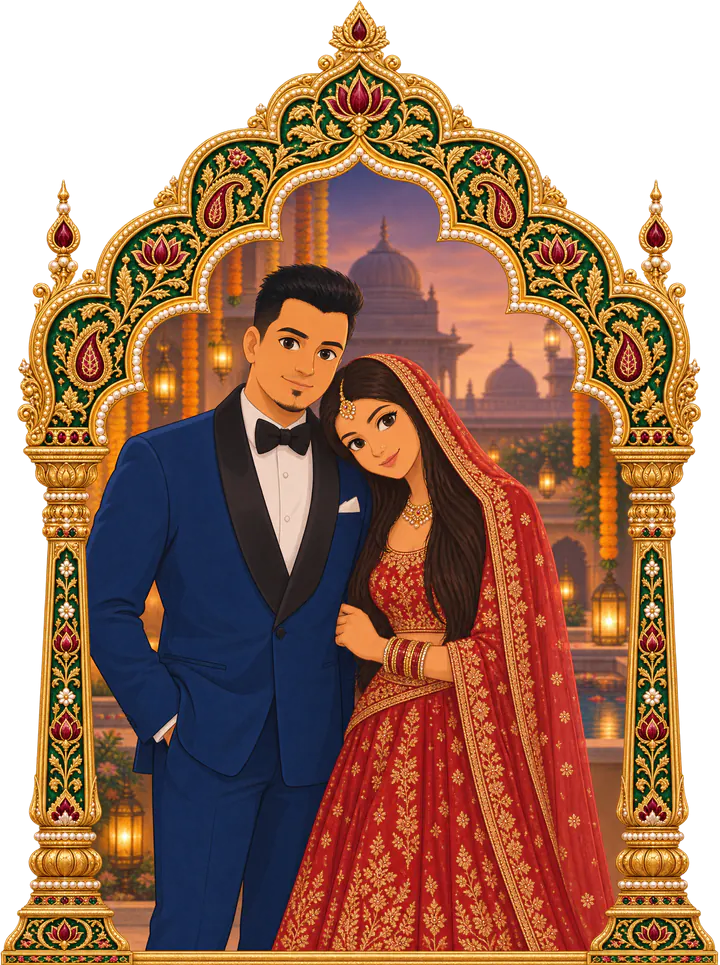
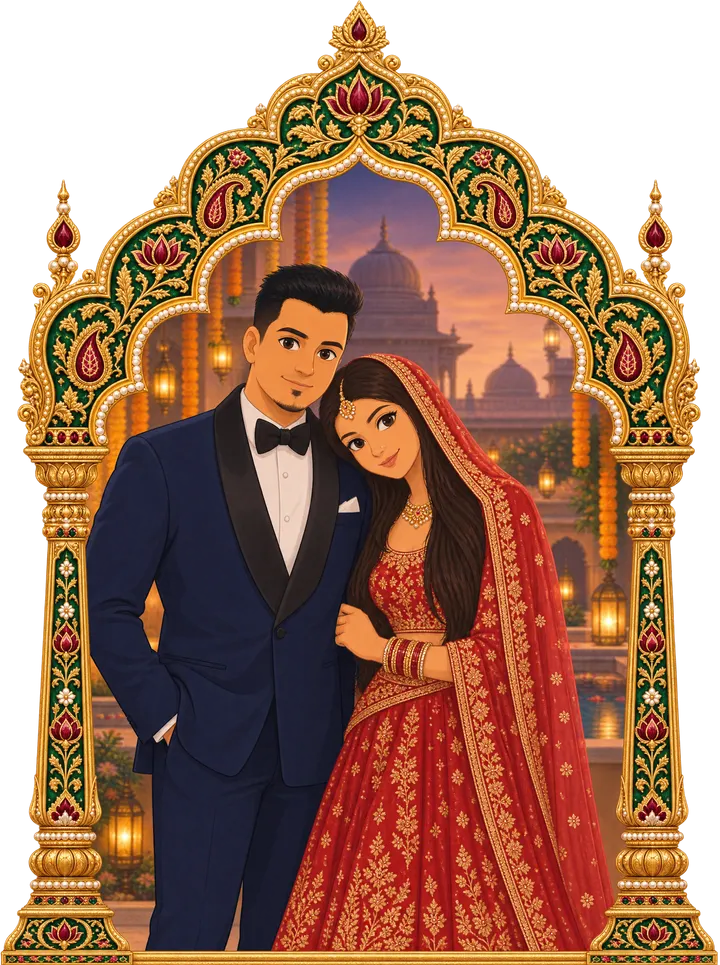
Wedding at 7 pm, navy suit in the portrait; holud at Shimanto Convention Centre, purple swatch
- Wedding starts at 7 pm (was 6 pm); the date page, venue card, countdown
  and calendar links follow from config.start.
- Portrait: Wahid's cobalt tuxedo recoloured to navy to match his real
  Highworth Navy suit (local OKLCH recolour of portrait-v8, no regeneration).
- Holud venue is Shimanto Convention Centre, 4th Floor, Shimanto Square
  Market, 75 Road No. 2, Dhaka 1209 (not BGB Banquet Hall); maps link,
  meta descriptions and the venue card updated, card name balanced.
- Holud dress swatches: Kolapata (green) replaced with Beguni (purple).

Claude-Session: https://claude.ai/code/session_01KxrNxxARccDbumsJrXybGD

diff --git a/holud/index.html b/holud/index.html
@@ -4,14 +4,14 @@
   <meta charset="utf-8">
   <meta name="viewport" content="width=device-width, initial-scale=1, viewport-fit=cover">
   <title>Wahid &amp; Anushka’s Gaye Holud</title>
-  <meta name="description" content="You are invited to the Gaye Holud of Wahid Sanjan and Anushka Shahreen on Thursday 24 December 2026 at BGB Banquet Hall, Shimanto Shambhar, Dhaka.">
+  <meta name="description" content="You are invited to the Gaye Holud of Wahid Sanjan and Anushka Shahreen on Thursday 24 December 2026 at Shimanto Convention Centre, Shimanto Square, Dhaka.">
   <meta name="theme-color" content="#E9A410">
 
   <!-- Link previews read these tags, not js/config.js: update the names and date here too. -->
   <meta property="og:type" content="website">
   <meta property="og:url" content="https://ssanjan123.github.io/wedding-invitation/holud/">
   <meta property="og:title" content="Wahid &amp; Anushka’s Gaye Holud">
-  <meta property="og:description" content="Thursday 24 December 2026, BGB Banquet Hall, Dhaka. Open your invitation.">
+  <meta property="og:description" content="Thursday 24 December 2026, Shimanto Convention Centre, Dhaka. Open your invitation.">
   <meta property="og:image" content="https://ssanjan123.github.io/wedding-invitation/holud/assets/img/og-share.jpg">
   <meta property="og:image:width" content="1200">
   <meta property="og:image:height" content="630">
@@ -73,14 +73,14 @@
 
         <div class="venue-title">
           <p class="venue-title__lead" data-bind="venue.lead">The holud will be held at</p>
-          <h2 class="venue-title__name" id="venue-name" data-bind="venue.name">BGB Banquet Hall</h2>
+          <h2 class="venue-title__name" id="venue-name" data-bind="venue.name">Shimanto Convention Centre</h2>
         </div>
 
         <div class="venue-card">
-          <p class="venue-card__name" data-bind="venue.name">BGB Banquet Hall</p>
-          <p class="venue-card__address" data-bind="venue.address">Shimanto Shambhar, 4th floor, Road 2, Dhanmondi, Dhaka 1205</p>
+          <p class="venue-card__name" data-bind="venue.name">Shimanto Convention Centre</p>
+          <p class="venue-card__address" data-bind="venue.address">4th Floor, Shimanto Square Market, 75 Road No. 2, Dhaka 1209</p>
           <p class="venue-card__when" data-bind="whenShort">Thursday 24 December 2026, 7 pm</p>
-          <a class="btn btn--ghost" data-href="venue.mapsUrl" href="https://www.google.com/maps/search/?api=1&amp;query=BGB+Banquet+Hall%2C+Shimanto+Shambhar%2C+Road+2%2C+Dhanmondi%2C+Dhaka" target="_blank" rel="noopener">Get directions</a>
+          <a class="btn btn--ghost" data-href="venue.mapsUrl" href="https://www.google.com/maps/search/?api=1&amp;query=Shimanto+Convention+Centre%2C+Shimanto+Square+Market%2C+75+Road+No.+2%2C+Dhaka+1209" target="_blank" rel="noopener">Get directions</a>
           <div class="evening">
             <svg class="evening__line" viewBox="0 0 2 100" preserveAspectRatio="none" aria-hidden="true"><line x1="1" y1="0" x2="1" y2="100" pathLength="1"/></svg>
             <ol class="evening__list"></ol>
@@ -205,11 +205,11 @@
 
         <p class="dress__bangla" lang="bn" aria-hidden="true" data-bind="dress.bangla">হলুদ</p>
         <h2 class="dress__title" id="dress-title" data-bind="dress.title">Come dressed in holud</h2>
-        <p class="dress__note" data-bind="dress.note">Yellow, marigold or green. The brighter, the better.</p>
+        <p class="dress__note" data-bind="dress.note">Yellow, marigold or purple. The brighter, the better.</p>
         <ul class="swatches" data-swatches>
           <li class="swatch swatch--holud"><i></i><span>Holud</span></li>
           <li class="swatch swatch--genda"><i></i><span>Genda</span></li>
-          <li class="swatch swatch--pata"><i></i><span>Kolapata</span></li>
+          <li class="swatch swatch--beguni"><i></i><span>Beguni</span></li>
         </ul>
 
         <div class="rule" aria-hidden="true"><i></i></div>

diff --git a/holud/css/style.css b/holud/css/style.css
@@ -17,6 +17,7 @@
   --paper: #FBEFC4;
   --rice: #FFF8EA;
   --marigold: #E0700E;
+  --beguni: #7A2E92;
   --leaf-950: #0E2415;
   --leaf-900: #1E3F20;
   --leaf-700: #2F6B2F;
@@ -602,7 +603,7 @@ html:not(.motion) .curtain { display: none; }
   background: linear-gradient(to bottom, rgba(30, 63, 32, .88), rgba(14, 36, 21, .94));
   box-shadow: inset 0 0 0 1px rgba(246, 206, 91, .55), inset 0 0 0 6px rgba(14, 36, 21, .3), inset 0 0 0 7px rgba(179, 38, 30, .45);
 }
-.venue-card__name { font-size: clamp(24px, 3vw, 30px); font-weight: 500; color: var(--turmeric-300); line-height: 1.2; }
+.venue-card__name { font-size: clamp(24px, 3vw, 30px); font-weight: 500; color: var(--turmeric-300); line-height: 1.2; text-wrap: balance; }
 .venue-card__address { margin-top: 4px; font-size: 18px; opacity: .92; text-wrap: balance; }
 .venue-card__when { margin-top: 2px; font-style: italic; font-size: 18px; opacity: .92; }
 .venue-card .btn { margin-top: 16px; }
@@ -680,7 +681,7 @@ html:not(.motion) .scene--stage { min-height: 100svh; }
 .swatch span { font-style: italic; font-size: 17px; color: var(--henna); }
 .swatch--holud { --c: var(--turmeric-500); }
 .swatch--genda { --c: var(--marigold); }
-.swatch--pata { --c: var(--leaf-700); }
+.swatch--beguni { --c: var(--beguni); }
 
 .rule { display: flex; align-items: center; gap: 12px; width: min(240px, 64vw); margin: 34px auto 26px; }
 .rule::before, .rule::after { content: ""; flex: 1; height: 1px; background: linear-gradient(90deg, transparent, var(--vermilion)); }

diff --git a/index.html b/index.html
@@ -79,7 +79,7 @@
         <div class="venue-card">
           <p class="venue-card__name" data-bind="venue.name">BAF Shaheen Hall</p>
           <p class="venue-card__address" data-bind="venue.address">Airport Road, beside Jahangir Gate, Dhaka Cantonment, Dhaka 1206</p>
-          <p class="venue-card__when" data-bind="whenShort">Sunday 27 December 2026, 6 pm</p>
+          <p class="venue-card__when" data-bind="whenShort">Sunday 27 December 2026, 7 pm</p>
           <a class="btn btn--ghost" data-href="venue.mapsUrl" href="#" target="_blank" rel="noopener">Get directions</a>
           <div class="evening">
             <svg class="evening__line" viewBox="0 0 2 100" preserveAspectRatio="none" aria-hidden="true"><line x1="1" y1="0" x2="1" y2="100" pathLength="1"/></svg>
@@ -123,7 +123,7 @@
               <p class="date__weekday" data-bind="weekday">Sunday</p>
               <p class="date__day"><span class="sr-only" data-day>27</span><span class="date__digits" aria-hidden="true"></span></p>
               <p class="date__month" data-bind="monthYear">December 2026</p>
-              <p class="date__time" data-bind="timeWords">at six o’clock in the evening</p>
+              <p class="date__time" data-bind="timeWords">at seven o’clock in the evening</p>
             </div>
             <p class="countdown"></p>
           </div>

diff --git a/holud/js/config.js b/holud/js/config.js
@@ -37,9 +37,9 @@ window.INVITE = {
 
   venue: {
     lead: "The holud will be held at",
-    name: "BGB Banquet Hall",
-    address: "Shimanto Shambhar, 4th floor, Road 2, Dhanmondi, Dhaka 1205",
-    mapsUrl: "https://www.google.com/maps/search/?api=1&query=BGB+Banquet+Hall%2C+Shimanto+Shambhar%2C+Road+2%2C+Dhanmondi%2C+Dhaka"
+    name: "Shimanto Convention Centre",
+    address: "4th Floor, Shimanto Square Market, 75 Road No. 2, Dhaka 1209",
+    mapsUrl: "https://www.google.com/maps/search/?api=1&query=Shimanto+Convention+Centre%2C+Shimanto+Square+Market%2C+75+Road+No.+2%2C+Dhaka+1209"
   },
 
   // Shown on the venue card. Leave the list empty to hide it.
@@ -50,8 +50,8 @@ window.INVITE = {
   dress: {
     bangla: "হলুদ",
     title: "Come dressed in holud",
-    note: "Yellow, marigold or green. The brighter, the better.",
-    swatches: ["Holud", "Genda", "Kolapata"]
+    note: "Yellow, marigold or purple. The brighter, the better.",
+    swatches: ["Holud", "Genda", "Beguni"]
   },
 
   // A note from the couple. Each item is one paragraph.

diff --git a/js/config.js b/js/config.js
@@ -24,7 +24,7 @@ window.INVITE = {
   request: "request the honour of your presence at their wedding",
 
   // Local time at the venue, 24-hour clock
-  start: "2026-12-27T18:00",
+  start: "2026-12-27T19:00",
   end: "2026-12-27T23:00",
   // Bangladesh time, so the countdown and calendar are right for guests anywhere
   utcOffset: "+06:00",

diff --git a/CLAUDE.md b/CLAUDE.md
@@ -55,7 +55,7 @@ Two GSAP rules keep the timeline the same scrolling up as scrolling down (both p
 `js/config.js` (`window.INVITE`) is the single source of guest-facing text. `index.html` holds the same text as fallback for no-JS. `fillContent()` overwrites it through data attributes:
 - `data-bind="path"` looks up `derived` first, then a dotted path into `INVITE` (e.g. `venue.name`).
 - `data-href`, `data-initials`, `data-guest`, `data-guest-line`, `data-message`, `data-ics` and `data-gcal` have their own handling.
-- `derived` holds values computed from `start`: weekday, month/year, "at six o'clock in the evening", `whenShort` and the full names.
+- `derived` holds values computed from `start`: weekday, month/year, "at seven o'clock in the evening", `whenShort` and the full names.
 The `<title>` and `og:` meta tags in `index.html` are **not** bound (link-preview crawlers don't run JS), so change them by hand whenever names or date change. Keep the HTML fallback text in sync as well.
 `assets/img/og-share.jpg` (the link preview) has W & A drawn into its seal: Imperial Script in the `--foil` gradient, sized like `fitMonograms()` to 92% of the seal's flat inner disc (centre 595.5, 325.5, 63 px across in the 1200x630 image), rendered in puppeteer over the plain image and saved as JPEG q90 (about 200 KB; WhatsApp may drop a preview image over 300 KB). The `og:image` URL carries `?v=2` so chat apps fetch it again; bump it whenever the image changes.
 
@@ -83,7 +83,7 @@ Each `<video>` has `data-land` / `data-port`, and the clip is picked by orientat
 - **Keep the film section cheap to draw:** don't put `backdrop-filter` on anything that appears over a film (the venue cards are opaque instead; the blur stalled a frame as the card appeared). The wedding's `.portal__frame` gets `will-change: transform` from the timeline at 8.3, for the doorway zoom only, because scaling the masked paper 9x repainted it every frame. Don't put it in the CSS: on 1x screens Chrome kept the zoom's raster, so the names looked soft on the way down and jagged after scrolling back. No CSS `filter` on anything that moves over a film either: the holud strands' drop-shadows are baked into their images for that reason.
 
 ## Holud page (`holud/`)
-A joint Gaye Holud invitation (Thursday 24 December 2026, 7 to 11 pm, BGB Banquet Hall, Shimanto Shambhar), live at https://ssanjan123.github.io/wedding-invitation/holud/. It links back to the wedding (`wedding.url: "../"`); the wedding page does not link to it, because not every wedding guest is a holud guest. Its story follows a holud evening: a painted kula with a thread-tied card, a swipe of turmeric paste that writes গায়ে হলুদ and the names, dusk falling over the paper as a ring of clay prodip is lit, one lamp at a time, round the date, a marigold-string curtain that parts onto a scrubbed film of the stage, and a "come dressed in holud" closing page. Mehedi is a separate event of its own, so the holud invitation must not mention or picture it (no mehndi hands or patterns).
+A joint Gaye Holud invitation (Thursday 24 December 2026, 7 to 11 pm, Shimanto Convention Centre, 4th floor of Shimanto Square Market), live at https://ssanjan123.github.io/wedding-invitation/holud/. It links back to the wedding (`wedding.url: "../"`); the wedding page does not link to it, because not every wedding guest is a holud guest. Its story follows a holud evening: a painted kula with a thread-tied card, a swipe of turmeric paste that writes গায়ে হলুদ and the names, dusk falling over the paper as a ring of clay prodip is lit, one lamp at a time, round the date, a marigold-string curtain that parts onto a scrubbed film of the stage, and a "come dressed in holud" closing page. Mehedi is a separate event of its own, so the holud invitation must not mention or picture it (no mehndi hands or patterns).
 - Same conventions as the wedding page: `holud/js/config.js` (`window.INVITE`) holds every guest-facing string, the same `data-*` bindings, both render modes and the same URL parameters. Its `<title>` and `og:` tags are hand-written too. `buzz()` and the `guestLine` code are copies of the wedding page's.
 - **Shared files:** it loads `../vendor/*.js`, `../js/media.js`, `../js/sound.js` and `../js/pace.js` directly, and its petals are `../assets/img/petal-*.webp` and `leaf-gold.webp`. A change to any of those affects both pages. `holud/js/main.js` is adapted from `js/main.js` (dates, content binding, monograms, calendar, countdown, dust, petals), so fix shared bugs in both.
 - **Timeline:** `TOTAL = 14.4`, `UNIT = 0.5`. Tray 0 to 3.2, holud swipe 3.2 to 5.8 (label `invite`), date in the ring of prodip 5.8 to 7.9 (label `date`; the ring arrives at 6.25, dusk falls 6.4 to 7.5, the 12 lamps light clockwise from 12 o'clock 6.55 to about 7.5), curtain falls at 8.2 and parts 9.2 to 10.3 for the middle strands (about 10.7 for the outer ones, which then settle until about 11.5), stage film scrubs 9.1 to 13.2, venue card fades at 13.8 before the closing page's `-30vh` overlap. `onUpdate`: cloth loop while `t < 3.3`, stage film fetch at `t > 0.4`, dust 0.6 on the tray, 0 on the paper pages (3.2 to 8.9) except for embers that rise to 0.45 as the lamps are lit (6.6 to 7.5), and 1 on the stage. `.prodip-ring` gets `is-lit` while `6.5 < t < 8.7`, which runs the flames' CSS flicker. Tap-to-dab works while `3.7 < t < 6.4` (the tap hint is readable until then) and on the closing page. A phone flick glides at most to the next of its `STOPS`: 0, 1.75 (doors open), 5.8 (names and tap hint), 7.9 (lamps lit), 10.5 (curtain parted, venue title), 12.1 (venue card in) and 14.4. Useful `?t=` stops: 0, 1.4, 3.0, 5.8, 6.9, 7.9, 8.7, 9.8, 12.4.
@@ -100,4 +100,4 @@ A joint Gaye Holud invitation (Thursday 24 December 2026, 7 to 11 pm, BGB Banque
 
 ## Assets
 All artwork and films were generated in Higgsfield, including the calligraphy (see "Hand-lettered calligraphy").
-`assets/img/portrait.webp`, at the top of page 4 in place of a crest, is an illustration of the couple (Wahid in a blue tuxedo, Anushka in a red lehenga) in a gold arch drawn to match `arch.webp`, with everything outside the arch transparent. The couple chose a stylised, animated look with little face detail over painterly realistic versions. It is `assets/raw/portrait/portrait-v8.png` with alpha ≤ 24 cleared (a faint haze round the frame), at 720 px wide, WebP q78, about 200 KB. The other variants and comparison sheets are in the same folder. The originals live in `assets/raw/` (the holud set in `assets/raw/holud/`), which is gitignored and not deployed (the generated audio clips are in `assets/raw/audio/`). Portrait (`-port`) and landscape (`-land`) versions exist for the films and their posters. The wedding's sound is in `assets/audio/` (`sound: true` in `js/config.js`).
+`assets/img/portrait.webp`, at the top of page 4 in place of a crest, is an illustration of the couple (Wahid in a navy tuxedo, Anushka in a red lehenga) in a gold arch drawn to match `arch.webp`, with everything outside the arch transparent. The couple chose a stylised, animated look with little face detail over painterly realistic versions. v8 came out cobalt blue; the suit was recoloured locally in OKLCH to match Wahid's real one (Highworth Navy: lightness ×0.88, chroma ×0.55, hue +15°, masked to the suit's blues inside a box round him), saved as `portrait-v8-navy.png`. `portrait.webp` is that file with alpha ≤ 24 cleared (a faint haze round the frame), at 720 px wide, WebP q78, about 200 KB. The other variants and comparison sheets are in the same folder. The originals live in `assets/raw/` (the holud set in `assets/raw/holud/`), which is gitignored and not deployed (the generated audio clips are in `assets/raw/audio/`). Portrait (`-port`) and landscape (`-land`) versions exist for the films and their posters. The wedding's sound is in `assets/audio/` (`sound: true` in `js/config.js`).

diff --git a/README.md b/README.md
@@ -11,7 +11,7 @@ Edit `js/config.js`: names, initials, date and time, venue, schedule, the Arabic
 meaning and source, and the note from the couple (`message`, one entry per paragraph).
 The verse is drawn from a hand-lettered image (`blessing.lettered`); if you change the Arabic text, empty that list
 so the new text is shown instead (and update `translation` and `source`).
-The weekday, "six o'clock in the evening", the countdown and the calendar file are all worked out from `start`.
+The weekday, "seven o'clock in the evening", the countdown and the calendar file are all worked out from `start`.
 
 Link previews (WhatsApp, iMessage) read the `<meta>` tags at the top of `index.html`, so update the
 names and date there too. The preview picture is `assets/img/og-share.jpg`, with W & A in the seal.
